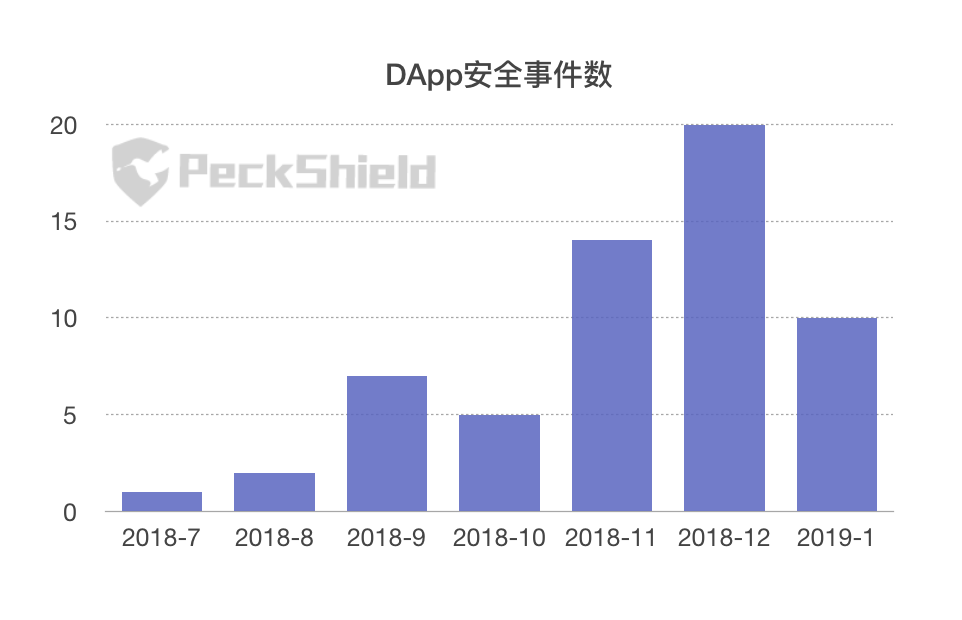
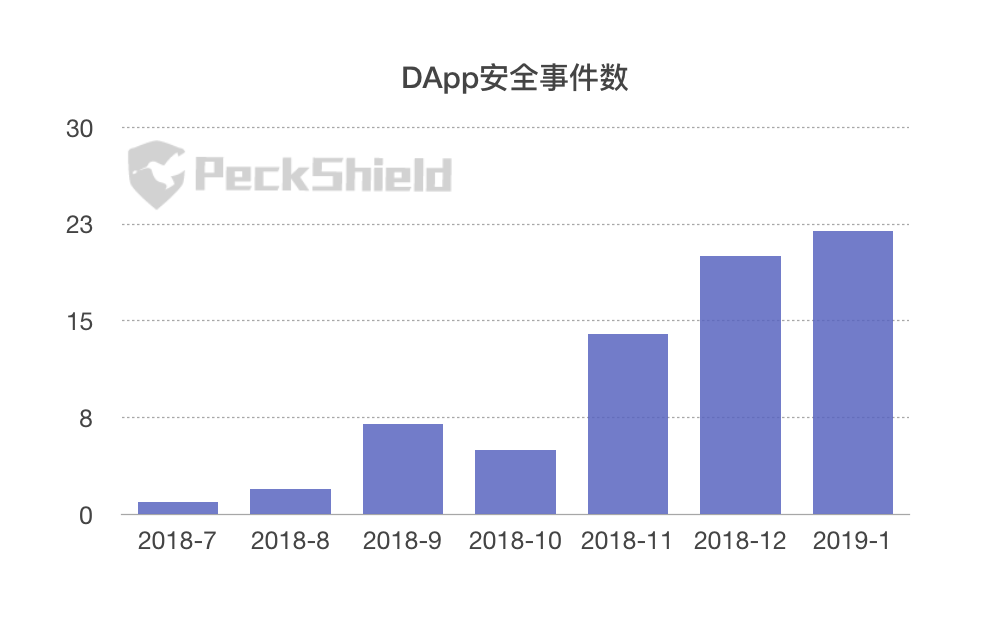
upate 2019-01-28

diff --git a/known_dapp_attacks/README.md b/known_dapp_attacks/README.md
@@ -3,11 +3,11 @@
 本文档根据发生的EOS DApp安全事件不定期更新，旨在记录EOS主网上线以来发生的各类DApp安全事件，供大家参考，同时欢迎大家对该文档提出建议及指正，以完善文档，一起促进EOS的生态健康发展。
 
 ## 概要
-截至2019年01月13日，共发生59起DApp安全事件，共损失近76万个EOS
+截至2019年01月28日，共发生71起DApp安全事件，共损超过78万个EOS
 ![EOS DApp安全事件列表](dapp_attacks_summary.png)
 
 ## EOS DApp安全事件列表
-截至2019年01月13日的安全事件列表：
+截至2019年01月28日的安全事件列表：
 ![EOS DApp安全事件列表](eos_dapp_attacks.png)
 
 ## EOS DApp安全事件历史版本
